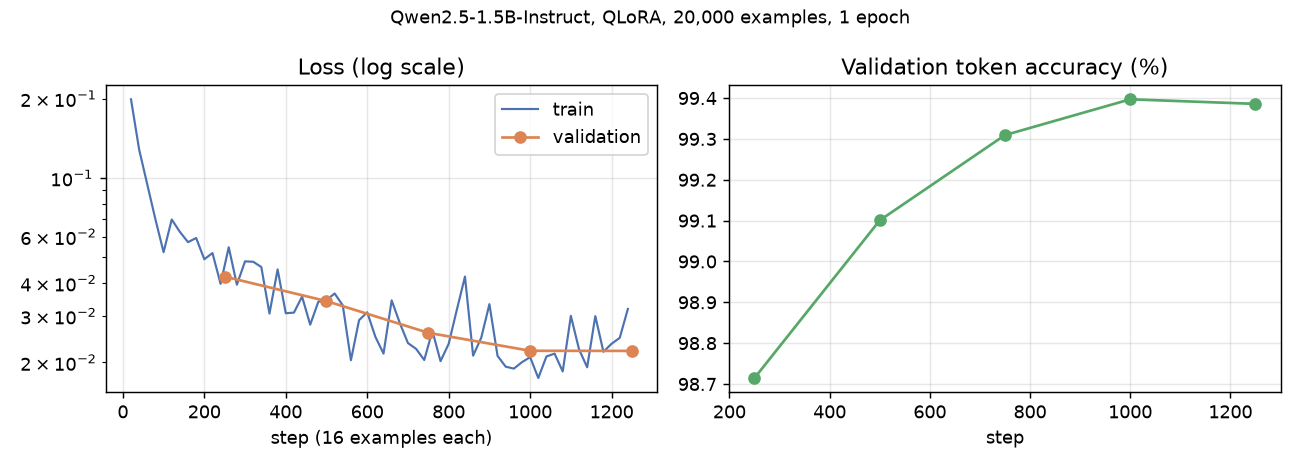
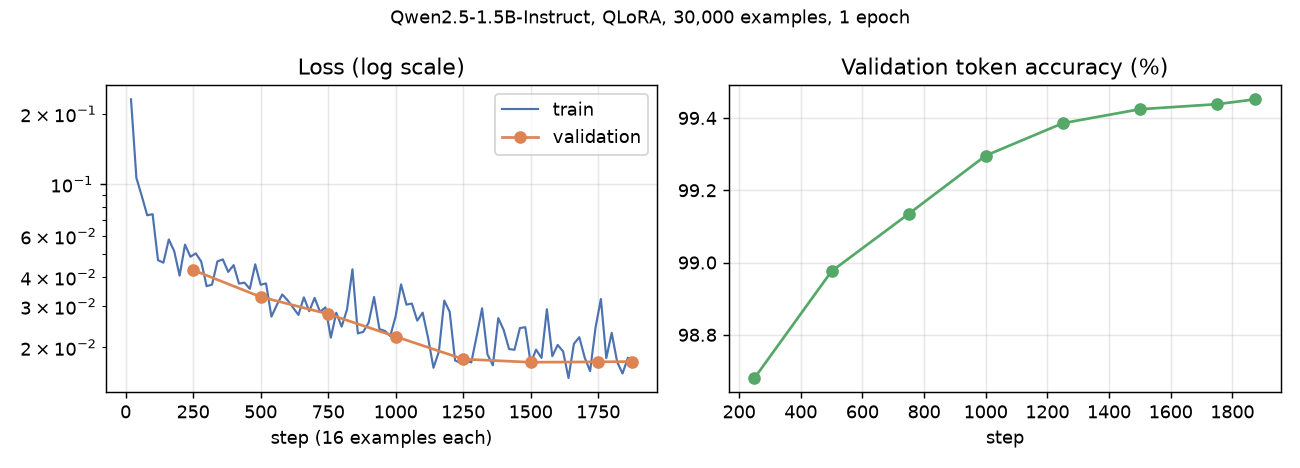
v3: fix noise rule, qualified and more new examples, issue test set

diff --git a/build_dataset.py b/build_dataset.py
@@ -10,9 +10,11 @@ Each step is skipped when its output already exists in data/:
        real       links actually made by the OFF parser
        corrupted  taxonomy names damaged on purpose (OCR errors, wrong declared language, percentages...)
        new        taxonomy leaves hidden from the index: the expected answer is their parent
+       qualified  taxonomy names with a qualifier that does not change the ingredient ("fresh", "italian"...)
        noise / structure  rule-based picks among real unrecognized names
 Outputs: data/train.jsonl, data/valid.jsonl ({"prompt", "completion", "source"} per line)
 and data/test_prompts.jsonl (the annotated test set test_gold.jsonl, in the same format).
+Names from test_gold.jsonl and test_issues.jsonl never appear in the training data.
 """
 
 from __future__ import annotations
@@ -32,9 +34,11 @@ import pandas as pd
 random.seed(42)
 DATA = Path("data")
 TEST_GOLD = Path("test_gold.jsonl")
+TEST_ISSUES = Path("test_issues.jsonl")  # examples from openfoodfacts-server issues #14657 and #14526
 K = 10  # candidates shown to the model
 EMBEDDER = "intfloat/multilingual-e5-small"
-SIZES = {"real": 12_000, "corrupted": 12_000, "new": 4_000, "noise": 4_000, "noise_short": 5_000, "structure": 2_000}
+SIZES = {"real": 12_000, "corrupted": 12_000, "new": 5_000, "qualified": 4_000, "noise": 4_000, "noise_short": 5_000,
+         "structure": 2_000}
 
 
 # ---------- 1. Taxonomy ----------
@@ -326,7 +330,7 @@ def corrupt(name: str) -> str:
 
 # Short noise: fragments, numbers, units, pieces of addresses or URLs, function words
 SHORT_NOISE = re.compile(
-    r"^(\W*\w{1,3}\W*|\d+([.,]\d+)?\s*(g|kg|mg|µg|ml|cl|l|kj|kcal|%|x)?|https?|www.*|.*\b(org|com|net)\b.*"
+    r"^(\W*\w{1,3}\W*|\d+([.,]\d+)?\s*(g|kg|mg|µg|ml|cl|l|kj|kcal|%|x)?|https?|www.*|.*\.(org|com|net)\b.*"
     r"|p\.?\s?o\.?( box)?|tel.*|fax.*|lot.*|n[°o]\.?\s?\d*)$",
     re.I,
 )
@@ -344,6 +348,15 @@ NOISE = re.compile(
     r"|(www\.|\.com|\.fr|@|poids net|net weight|lot |exp )",
     re.I,
 )
+# Qualifiers that do not make a different ingredient: "fresh almonds" is still en:almond.
+# Composed names that already exist in the taxonomy ("fresh cream"...) are skipped.
+QUALIFIERS = {
+    "en": ["fresh", "natural", "pure", "selected", "premium", "mini", "ripe", "imported", "italian", "french",
+           "spanish", "greek", "belgian", "american"],
+    "fr": ["frais", "naturel", "pur", "sélectionné", "extra", "italien", "français", "espagnol"],
+    "es": ["fresco", "natural", "puro", "seleccionado", "extra", "italiano", "español"],
+    "it": ["fresco", "naturale", "puro", "selezionato", "extra", "italiano"],
+}
 STRUCTURE = re.compile(
     r"(contains? (\d+ ?% )?(or|and) less|less than \d|may contain|peut contenir|traces? (éventuelles|de)|kann spuren"
     r"|puede contener|può contenere|of the following|to preserve freshness|as a preservative|added to)",
@@ -356,6 +369,7 @@ def main() -> None:
         extract_from_export()
     examples: list[dict] = []
     retriever = Retriever()
+    known_names = {k.split(":", 1)[1] for k in tx.synonyms}
 
     def add_batch(items, source):
         """items: (name, lang, context, answer, id that must be among the candidates, or None)"""
@@ -384,7 +398,7 @@ def main() -> None:
 
     # Simulated new ingredients: taxonomy leaves removed from the index
     children = {p for ps in tx.parents.values() for p in ps}
-    leaves = [eid for eid, ps in tx.parents.items() if ps and eid not in children and eid.startswith("en:")]
+    leaves = [eid for eid, ps in tx.parents.items() if ps and eid not in children]
     held_out = set(random.sample(leaves, min(len(leaves), SIZES["new"])))
     hidden = Retriever(exclude=held_out)
     items = []
@@ -397,13 +411,24 @@ def main() -> None:
             random.shuffle(pairs)
             examples.append(example(name, lang, ctx, pairs, answer, "new"))
 
+    # Qualified names: a qualifier that does not change the ingredient, so the answer is the entry itself
+    names = [(eid, lang, n) for eid, e in tx.entries.items() for lang in QUALIFIERS for n in e.names.get(lang, [])
+             if len(n.split()) <= 3]
+    items = []
+    for eid, lang, n in random.sample(names, len(names)):
+        q = random.choice(QUALIFIERS[lang])
+        name = f"{q} {n}" if lang == "en" else f"{n} {q}"
+        if normalize(name) in known_names:
+            continue
+        items.append((name, lang, make_context(name, lang), {"type": "existing", "id": eid}, eid))
+        if len(items) == SIZES["qualified"]:
+            break
+    add_batch(items, "qualified")
+
     # Noise and structure, among real unrecognized names
     unknown = pd.read_parquet(DATA / "unknown_names.parquet")
     unknown["name"] = unknown.id.str.split(":", n=1).str[1].str.replace("-", " ")
-    test_names = {normalize(json.loads(l)["name"]) for l in open(TEST_GOLD, encoding="utf-8")}
-    unknown = unknown[~unknown.name.map(normalize).isin(test_names)]  # never a test name in training
-    known = {k.split(":", 1)[1] for k in tx.synonyms}
-    unknown = unknown[~unknown.name.map(normalize).isin(known)]  # nor a real ingredient name taken for noise
+    unknown = unknown[~unknown.name.map(normalize).isin(known_names)]  # no real ingredient name taken for noise
     stripped = unknown.name.str.strip()
     is_short = stripped.str.match(SHORT_NOISE) | stripped.str.lower().isin(FUNCTION_WORDS)
     is_struct = unknown.name.str.contains(STRUCTURE)
@@ -414,6 +439,10 @@ def main() -> None:
         answer = {"type": "structure"} if kind == "structure" else {"type": "not_ingredient"}
         add_batch([(r.name, r.lang, make_context(r.name, r.lang), answer, None) for r in pick.itertuples()], kind)
 
+    # Never a test name in training, whatever the source
+    test_names = {normalize(json.loads(l)["name"]) for path in (TEST_GOLD, TEST_ISSUES) for l in open(path, encoding="utf-8")}
+    examples = [e for e in examples if normalize(re.search(r'^Unrecognized ingredient: "(.*)"$', e["prompt"], re.M)[1])
+                not in test_names]
     random.shuffle(examples)
     n_valid = len(examples) // 20
     for path, part in [(DATA / "valid.jsonl", examples[:n_valid]), (DATA / "train.jsonl", examples[n_valid:])]:

diff --git a/train.py b/train.py
@@ -1,6 +1,6 @@
 """QLoRA fine-tuning of Qwen2.5-1.5B-Instruct on data/train.jsonl, then predictions on the test set.
 
-    python train.py              # about 2.5 h on an 8 GB laptop GPU (RTX 4060)
+    python train.py              # about 4 h on an 8 GB laptop GPU (RTX 4060)
     python train.py --resume     # restart from the last checkpoint in models/run/
 Outputs: models/adapter/ (LoRA weights, about 50 MB) and data/predictions_test.jsonl.
 Tracked in Weights & Biases when a key is configured (`wandb login`).
@@ -78,7 +78,7 @@ def predict(model, tok, items: list[dict], batch: int = 16) -> list[dict]:
 def main() -> None:
     ap = argparse.ArgumentParser()
     ap.add_argument("--model", default="Qwen/Qwen2.5-1.5B-Instruct")
-    ap.add_argument("--n-train", type=int, default=20_000)
+    ap.add_argument("--n-train", type=int, default=30_000)
     ap.add_argument("--batch", type=int, default=2, help="examples per pass (effective batch: 16)")
     ap.add_argument("--resume", action="store_true")
     args = ap.parse_args()

diff --git a/infer.py b/infer.py
@@ -46,6 +46,9 @@ def main() -> None:
     ]
     for (lang, name, _), p in zip(rows, predict(model, tok, items)):
         decision = p["prediction"]
+        for key in ("id", "parent"):  # an id written slightly off ("en:walnuts") -> the canonical one ("en:walnut")
+            if decision.get(key) and decision[key] not in tx.entries:
+                decision[key] = tx.resolve(decision[key]) or decision[key]
         ref = decision.get("id") or decision.get("parent")
         out = {"name": name, "lang": lang, **decision}
         if ref in tx.entries:

diff --git a/README.md b/README.md
@@ -20,19 +20,22 @@ For each unknown name, the model proposes one of four decisions:
 1. **Retrieval.** A multilingual embedding model (`multilingual-e5-small`) finds the 10 closest taxonomy entries, whatever their language, with a similarity score.
 2. **Decision.** Qwen2.5-1.5B-Instruct, fine-tuned with QLoRA, reads the name, the declared language, the surrounding list and the 10 candidates, then answers in JSON.
 
-**Training data** (37,214 examples, built automatically by `build_dataset.py`; a rebuild gives a few more or fewer "new" examples):
+**Training data** (41,420 examples, built automatically by `build_dataset.py`):
 
 | Source | Examples | Answer |
 |---|---:|---|
-| Links actually made by the OFF parser | 12,000 | existing |
-| Taxonomy names damaged on purpose (OCR errors, wrong declared language, percentages) | 12,000 | existing |
-| Taxonomy leaves hidden from the index | 2,214 | new + parent |
-| Unknown names picked by rules (nutrition tables, URLs, fragments…) | 9,000 | not_ingredient |
-| List phrases ("may contain", "contains 2% or less of"…) | 2,000 | structure |
+| Links actually made by the OFF parser | 11,838 | existing |
+| Taxonomy names damaged on purpose (OCR errors, wrong declared language, percentages) | 11,991 | existing |
+| Taxonomy names with a qualifier that changes nothing ("fresh almonds", "fromage italien") | 4,000 | existing |
+| Taxonomy leaves hidden from the index | 2,822 | new + parent |
+| Unknown names picked by rules (nutrition tables, URLs, fragments…) | 8,771 | not_ingredient |
+| List phrases ("may contain", "contains 2% or less of"…) | 1,998 | structure |
 
-**Test set** (`test_gold.jsonl`): 300 real unknown names, each present in at least 10 products. They are sampled by language from the export and annotated by hand; 293 are scored, and 7 uncertain ones are left out. None of them appears in the training data.
+**Test sets.** None of their names appears in the training data.
+- `test_gold.jsonl`: 300 real unknown names, each present in at least 10 products. They are sampled by language from the export and annotated by hand; 293 are scored, and 7 uncertain ones are left out.
+- `test_issues.jsonl`: the 49 names reported in issues [#14657](https://github.com/openfoodfacts/openfoodfacts-server/issues/14657) (US names, missing allergens) and [#14526](https://github.com/openfoodfacts/openfoodfacts-server/issues/14526) (Portuguese fortified wheat flour). They are evaluated against the taxonomy as it was before those issues were fixed (commit `5a011db`, 21 September 2026).
 
-**Training:** 20,000 examples, 1 epoch, LoRA rank 16 on every linear layer (18.5 M trainable parameters, 1.2 % of the model), base model in 4 bits. It takes about 3 h on an 8 GB laptop GPU (RTX 4060).
+**Training:** 30,000 examples, 1 epoch, LoRA rank 16 on every linear layer (18.5 M trainable parameters, 1.2 % of the model), base model in 4 bits. It takes about 4 h on an 8 GB laptop GPU (RTX 4060).
 
 ![Training curves](assets/training_curves.png)
 
@@ -45,21 +48,23 @@ For each unknown name, the model proposes one of four decisions:
 | Current OFF parser (by construction: these are its failures) | 0 % | 0 % | 0 % | 0 |
 | Best non-LLM baseline: exact match in any language > fuzzy match > retrieval | 70.6 % | 62.5 % | 68.6 % | 11 |
 | Qwen2.5-1.5B-Instruct, not fine-tuned | 37.5 % | 33.1 % | 40.0 % | 1 |
-| **Qwen2.5-1.5B-Instruct, fine-tuned** | **78.2 %** | **68.6 %** | **91.4 %** | **4** |
+| **Qwen2.5-1.5B-Instruct, fine-tuned** | **76.8 %** | **68.6 %** | **94.3 %** | **4** |
 
-The 35 test names that should carry an allergen appear in 811 products. The model finds the right allergens for 32 of them, which cover **775 products**.
+The 35 test names that should carry an allergen appear in 811 products. The model finds the right allergens for 33 of them, which cover **787 products**.
+
+On the issue examples, the model gives the right allergen (or the right additive or entry) for **47 of the 49 names**. It finds, among others, `keta salmon` → `en:chum-salmon`, `cashew butter` → new, parent `en:cashew-nuts`, and the Brazilian `farinha de trigo enriquecida com ferro e ácido fólico` → parent `en:fortified-wheat-flour` (gluten). The two misses are `imitation crab` (crustaceans instead of fish: it is surimi) and `bees wax`.
 
 Strict score by cause:
 
 | Why OFF did not recognize it | Cases | Fine-tuned model |
 |---|---:|---:|
 | Right name, wrong declared language | 69 | 98.6 % |
-| Variant, typo, OCR error | 123 | 55.3 % |
-| Not an ingredient | 79 | 75.9 % |
+| Variant, typo, OCR error | 123 | 54.5 % |
+| Not an ingredient | 79 | 74.7 % |
 | List phrase | 6 | 50.0 % |
-| Missing from the taxonomy (new) | 16 | 12.5 % |
+| Missing from the taxonomy (new) | 16 | 25.0 % |
 
-Qwen2.5-3B, fine-tuned the same way, reached 70.0 % strict (+4 cases), for three times the training time. That gain is not worth the extra cost.
+The most frequent error (35 cases) is answering "new, parent X" when the expected answer is "existing X". For example, `poivre de sichuan` → new, parent `en:sichuan-pepper`. The allergens are the same either way, but the taxonomy edit is not. Qwen2.5-3B, fine-tuned the same way, gained only 4 cases for three times the training time.
 
 **Limits.** New ingredients remain the weak spot. With 68.6 % strict accuracy, the model's output should be used as **suggestions reviewed by a contributor**, never as direct edits.
 
@@ -84,3 +89,4 @@ The trained adapter is on the Hugging Face Hub, so no training is needed: `pytho
 | `train.py` | QLoRA fine-tuning and test-set predictions |
 | `infer.py` | linking new names with the trained adapter |
 | `test_gold.jsonl` | the 300 annotated test names |
+| `test_issues.jsonl` | the 49 names from issues #14657 and #14526, with the expected answer |
